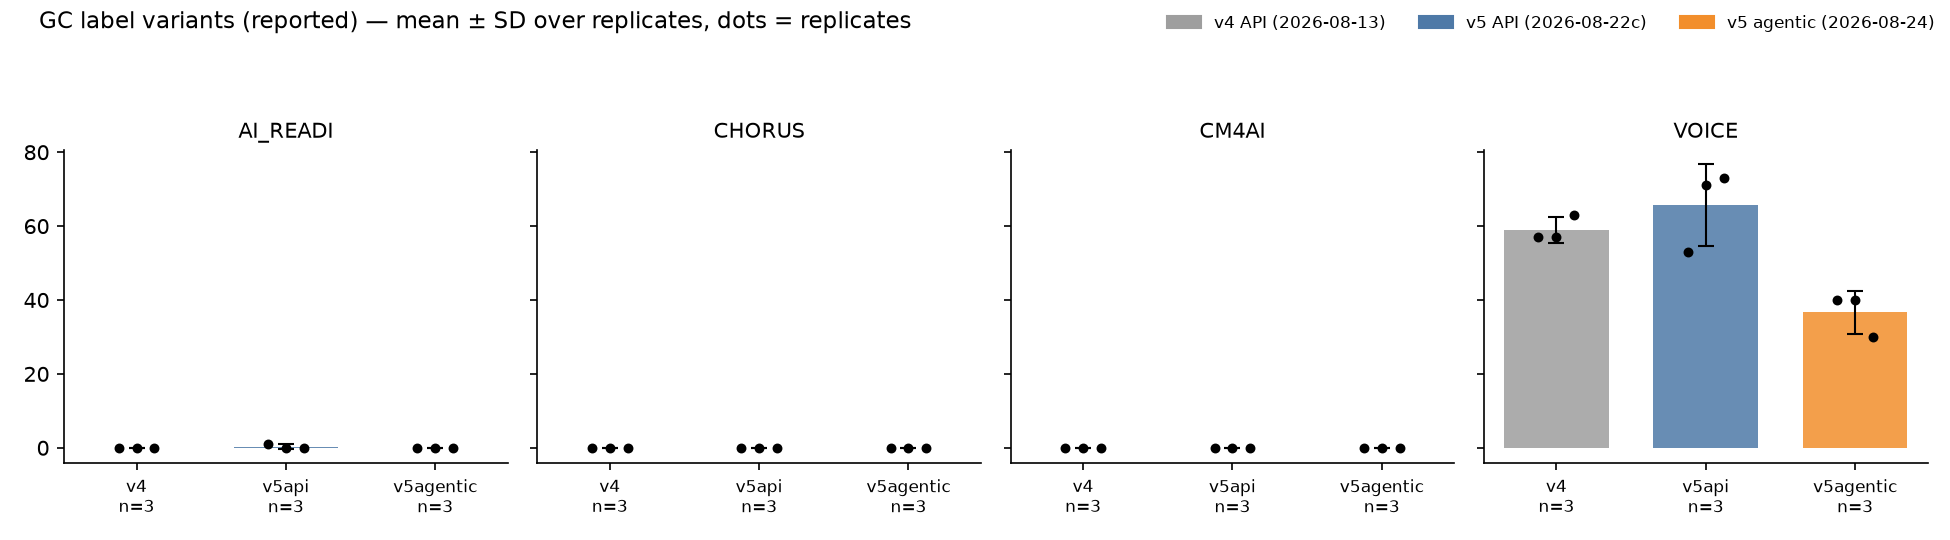
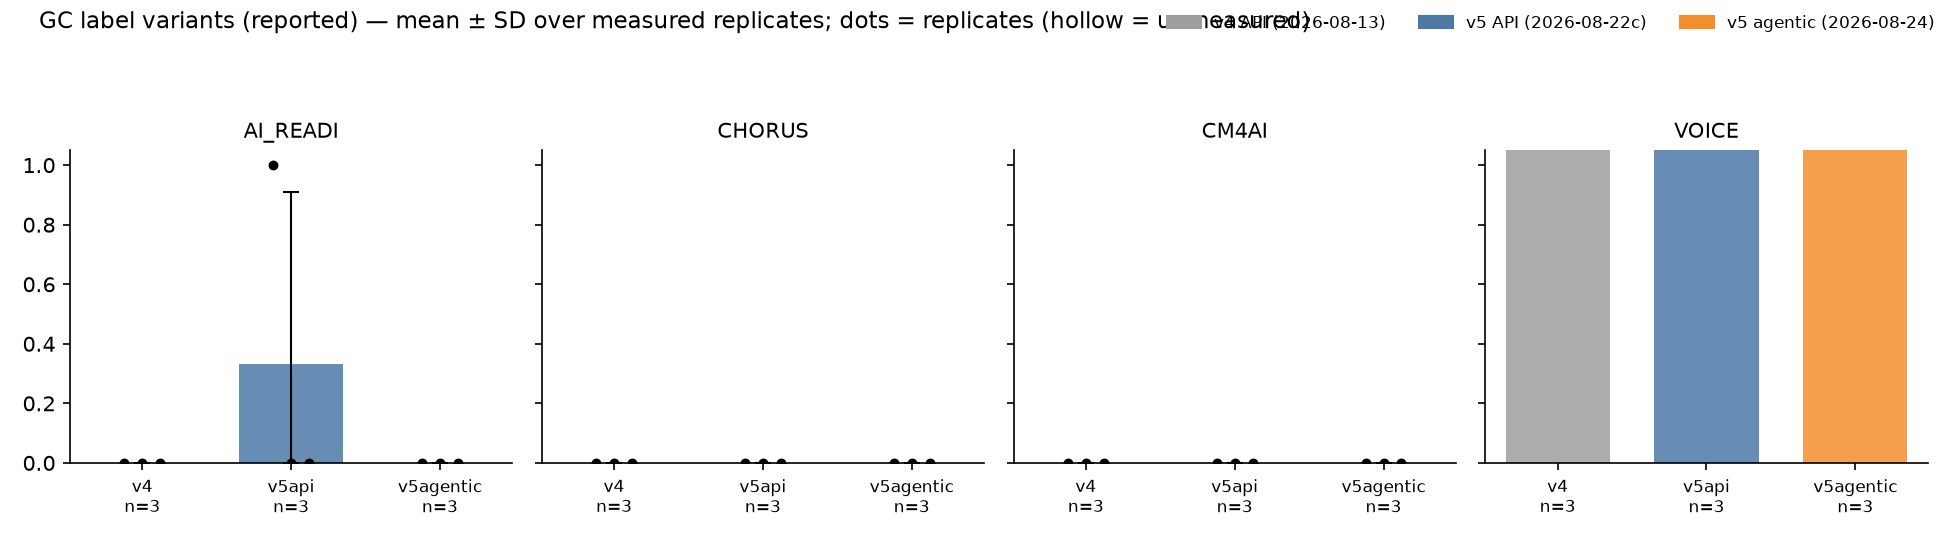
Absorb the #698 review: unmeasured values leave the mean, whiskers stop below zero
F1: a report-findings 0ᵘ (zero parsed claims, #684) was averaged as a
measured zero and drawn as an ordinary replicate dot under "n=3". measured()
now excludes it from the mean and from n; cells with no measured replicate
show only their raw values; a single measured replicate shows its value
without an SD (an SD needs two); the figure draws unmeasured replicates as
hollow dots and n counts only measured ones. The footer says all of this.

F2: count data with n=3 and one outlier — the lower whisker is clipped at
zero and the axis floor is zero; the footer states that with one outlier the
SD is that outlier and the bracketed values are the better summary.

F3: rubric figure titles no longer overrun; the absent-arms note is a
footnote. F4: stale comments and the docstring corrected, statistics
imported once, unused unpacking removed. F5: an arm with no runs shows "–"
under its tick rather than n=0.

Review recomputed all 96 cells independently: 0 mismatches.

diff --git a/scripts/arm_comparison.py b/scripts/arm_comparison.py
@@ -44,6 +44,7 @@ from __future__ import annotations
 import argparse
 import json
 import os
+import statistics
 import sys
 from pathlib import Path
 from typing import Any
@@ -68,9 +69,9 @@ OUT_FIG = ROOT / "notes" / "figures"
 PROJECTS = ("AI_READI", "CHORUS", "CM4AI", "VOICE")
 METHOD = "claudecode_agent"
 
-# (key, display, label prefix, runtime, role). `role` says how the arm is
-# shown: "worst" collapses replicates to the per-project worst (the canary
-# gate's baseline convention), "reps" shows all three.
+# (key, display, label prefix, runtime, role). Every arm is shown as mean ± SD
+# over its replicates; `role == "worst"` additionally prints the per-project
+# worst, the value the canary gate holds runs against.
 ARMS = (
     ("v4", "v4 API (2026-08-13)", "2026-08-13_claude-opus-5-api-generic-v4",
      "Claude API via CBORG", "worst"),
@@ -192,12 +193,23 @@ def fmt(m: dict[str, Any], metric: str) -> str:
     return str(v)
 
 
+def measured(r: dict[str, Any], metric: str) -> bool:
+    """Is this replicate's value a measurement? A report-findings 0 with zero
+    parsed claims is unmeasured (#684) and must not enter a mean as a zero."""
+    v = r.get(metric)
+    if v is None:
+        return False
+    if metric == "report" and v == 0 and not r.get("claims_checked"):
+        return False
+    return True
+
+
 def stats(reps: list[dict[str, Any]], metric: str) -> tuple[float, float, int] | None:
-    """Mean and sample SD (ddof=1) over replicates; None when fewer than 1.
-    n is always reported beside the figure: three replicates is a small
-    sample, and an SD on n=3 is a spread, not a confidence interval."""
-    import statistics
-    vals = [r[metric] for r in reps if r.get(metric) is not None]
+    """Mean and sample SD (ddof=1) over the *measured* replicates; None when
+    there are none. n is always reported beside the figure: three replicates
+    is a small sample, an SD on n=3 is a spread rather than a confidence
+    interval, and with one outlier the SD is that outlier."""
+    vals = [r[metric] for r in reps if measured(r, metric)]
     if not vals:
         return None
     mean = statistics.fmean(vals)
@@ -208,12 +220,14 @@ def stats(reps: list[dict[str, Any]], metric: str) -> tuple[float, float, int] |
 def cell(reps: list[dict[str, Any]], metric: str, role: str) -> str:
     """mean ± SD with the replicates in brackets; the baseline arm adds its
     per-project worst, which is what the canary gate holds runs against."""
+    raw = ",".join(fmt(r, metric) for r in reps)
     st = stats(reps, metric)
     if st is None:
-        return "–"
+        return f"– [{raw}]" if raw else "–"
     mean, sd, n = st
-    raw = ",".join(fmt(r, metric) for r in reps)
-    body = f"{mean:.1f} ± {sd:.1f} [{raw}]"
+    # An SD needs two values; a single measured replicate gets its value and n.
+    centre = f"{mean:.1f} ± {sd:.1f}" if n > 1 else f"{mean:.1f}"
+    body = f"{centre} [{raw}]" + (f" (n={n})" if n != len(reps) else "")
     if role == "worst":
         body += f" worst {worst(reps, metric)}"
     return body
@@ -253,7 +267,7 @@ def write_markdown(data, scores) -> None:
              "- spend: absent by design — `api_usage` and `run_observed` are different "
              "quantities (#400).", "",
              "Arms: " + "; ".join(f"**{d}** — `{pfx}_rep{{1,2,3}}`, {rt}"
-                                   + (" (shown as per-project worst; max for reported-only metrics)" if role == "worst" else "")
+                                   + (" (also shown with its per-project worst — max for reported-only metrics — the canary-gate baseline)" if role == "worst" else "")
                                    for _k, d, pfx, rt, role in ARMS), ""]
 
     lines += ["## Deterministic metrics — mean ± SD over replicates", "",
@@ -265,11 +279,14 @@ def write_markdown(data, scores) -> None:
             for key, _d, _pfx, _rt, role in ARMS:
                 cells.append(cell(data[key][p], mk, role))
             lines.append(f"| {disp} | {p} | " + " | ".join(cells) + " |")
-    lines += ["", "Cells are mean ± sample SD over the replicates (n = 3 unless a run is "
-              "missing), with the replicate values in brackets; the baseline arm adds "
-              "its per-project worst, the value the canary gate holds runs against. "
-              "An SD over three replicates is a spread, not a confidence interval. "
-              "ᵘ = unmeasured: the report-claims checker parsed zero claims (#684).", ""]
+    lines += ["", "Cells are mean ± sample SD over the *measured* replicates, with every "
+              "replicate value in brackets; n is 3 unless stated. The baseline arm adds "
+              "its per-project worst, the value the canary gate holds runs against. Read "
+              "the SD as a spread, not a confidence interval: with n = 3 and one outlier "
+              "(e.g. [3,14,130]) the SD is that outlier, and the bracketed values are the "
+              "better summary. ᵘ = unmeasured — the report-claims checker parsed zero "
+              "claims (#684); unmeasured values are excluded from the mean and n, and a "
+              "cell with no measured replicate shows only its raw values.", ""]
 
     lines += ["## Per-metric caveats (attached, not footnoted elsewhere)", ""]
     for mk, (disp, src, _hiw, cav) in METRICS.items():
@@ -310,29 +327,42 @@ def write_figures(data, scores) -> None:
 
     # One figure per metric: 4 project panels, one bar per arm = replicate mean,
     # error bar = sample SD (n printed under the bar). Replicates are dots.
-    for mk, (disp, _src, _hiw, cav) in METRICS.items():
+    for mk, (disp, _src, _hiw, _cav) in METRICS.items():
         fig, axes = plt.subplots(1, len(PROJECTS), figsize=(13, 3.6), sharey=True)
         for ax, p in zip(axes, PROJECTS):
             ns: dict[int, int] = {}
-            for i, (key, d, _pfx, _rt, role) in enumerate(ARMS):
+            for i, (key, *_rest) in enumerate(ARMS):
                 reps = data[key][p]
                 st = stats(reps, mk)
-                if st is None:
-                    continue
-                mean, sd, n = st
-                ax.bar(i, mean, color=colors[key], width=0.7, alpha=0.85)
-                ax.errorbar(i, mean, yerr=sd, fmt="none", ecolor="black", capsize=4, lw=1)
-                vals = [r[mk] for r in reps if r.get(mk) is not None]
-                ax.scatter([i + (j - 1) * 0.12 for j in range(len(vals))], vals,
-                           s=14, color="black", zorder=3)
-                ns[i] = n
+                if st is not None:
+                    mean, sd, n = st
+                    ax.bar(i, mean, color=colors[key], width=0.7, alpha=0.85)
+                    # Counts cannot go below zero; the lower whisker is clipped.
+                    # No whisker at all for a single measured replicate.
+                    if n > 1:
+                        ax.errorbar(i, mean, yerr=[[min(sd, mean)], [sd]], fmt="none",
+                                    ecolor="black", capsize=4, lw=1)
+                    ns[i] = n
+                # Replicates as dots: filled when measured, hollow when the
+                # value is an unmeasured 0ᵘ (#684) and so not in the mean.
+                for j, r in enumerate(reps):
+                    v = r.get(mk)
+                    if v is None:
+                        continue
+                    x = i + (j - 1) * 0.12
+                    if measured(r, mk):
+                        ax.scatter([x], [v], s=14, color="black", zorder=3)
+                    else:
+                        ax.scatter([x], [v], s=18, facecolors="white", edgecolors="black", zorder=3)
+            ax.set_ylim(bottom=0)
             ax.set_xticks(range(len(ARMS)))
-            ax.set_xticklabels([f"{k}\nn={ns.get(i, 0)}" for i, (k, *_) in enumerate(ARMS)], fontsize=8)
+            ax.set_xticklabels([f"{k}\nn={ns[i]}" if i in ns else f"{k}\n–"
+                                for i, (k, *_) in enumerate(ARMS)], fontsize=8)
             ax.set_title(p, fontsize=10)
             ax.spines[["top", "right"]].set_visible(False)
         handles = [plt.Rectangle((0, 0), 1, 1, color=colors[k]) for k, *_ in ARMS]
         fig.legend(handles, [d for _k, d, *_ in ARMS], loc="upper right", fontsize=8, ncol=3, frameon=False)
-        fig.suptitle(f"{disp} — mean ± SD over replicates, dots = replicates", x=0.02, ha="left", fontsize=11)
+        fig.suptitle(f"{disp} — mean ± SD over measured replicates; dots = replicates (hollow = unmeasured)", x=0.02, ha="left", fontsize=11)
         fig.tight_layout(rect=(0, 0, 1, 0.9))
         out = OUT_FIG / f"arm_comparison_{mk}.png"
         fig.savefig(out, dpi=150); plt.close(fig)
@@ -374,9 +404,10 @@ def _rubric_figure(rubric, scores, colors) -> None:
     ax.set_ylabel(f"{rubric}-semantic points (axis: unadjusted max {RUBRIC_MAX[rubric]})")
     ax.spines[["top", "right"]].set_visible(False)
     ax.legend(frameon=False, fontsize=8, loc="upper center", bbox_to_anchor=(0.5, -0.12), ncol=len(arm_keys))
-    ax.set_title(f"{rubric.capitalize()}-semantic, canonical records (same evaluator; n = 1 per bar, no SD)"
-                 + (f" — no evaluations exist for: {', '.join(absent)}" if absent else ""),
+    ax.set_title(f"{rubric.capitalize()}-semantic, canonical records (same evaluator; n = 1 per bar, no SD)",
                  fontsize=9, loc="left")
+    if absent:
+        fig.text(0.01, 0.01, f"No evaluations exist for: {', '.join(absent)}", fontsize=7, color="#555")
     fig.tight_layout()
     out = OUT_FIG / f"arm_comparison_{rubric}.png"
     fig.savefig(out, dpi=150); plt.close(fig)

diff --git a/notes/arm_comparison.md b/notes/arm_comparison.md
@@ -9,7 +9,7 @@ Generated by `scripts/arm_comparison.py` from the provenance records under `data
 - rubric scores: `data/evaluation_llm/rubric{10,20}_semantic/label_aware/`, same evaluator for every arm shown; N/A exclusions are evaluator judgements, so adjusted maxima can differ between comparable records.
 - spend: absent by design — `api_usage` and `run_observed` are different quantities (#400).
 
-Arms: **v4 API (2026-08-13)** — `2026-08-13_claude-opus-5-api-generic-v4_rep{1,2,3}`, Claude API via CBORG (shown as per-project worst; max for reported-only metrics); **v5 API (2026-08-22c)** — `2026-08-22c_claude-opus-5-api-generic-v5_rep{1,2,3}`, Claude API via CBORG; **v5 agentic (2026-08-24)** — `2026-08-24_claude-opus-5-claudecode-generic-v5_rep{1,2,3}`, Claude Code
+Arms: **v4 API (2026-08-13)** — `2026-08-13_claude-opus-5-api-generic-v4_rep{1,2,3}`, Claude API via CBORG (also shown with its per-project worst — max for reported-only metrics — the canary-gate baseline); **v5 API (2026-08-22c)** — `2026-08-22c_claude-opus-5-api-generic-v5_rep{1,2,3}`, Claude API via CBORG; **v5 agentic (2026-08-24)** — `2026-08-24_claude-opus-5-claudecode-generic-v5_rep{1,2,3}`, Claude Code
 
 ## Deterministic metrics — mean ± SD over replicates
 
@@ -35,10 +35,10 @@ Arms: **v4 API (2026-08-13)** — `2026-08-13_claude-opus-5-api-generic-v4_rep{1
 | pair errors | CHORUS | 3.0 ± 3.0 [6,0,3] worst 6 | 1.0 ± 1.0 [1,0,2] | 0.0 ± 0.0 [0,0,0] |
 | pair errors | CM4AI | 6.0 ± 3.0 [6,9,3] worst 9 | 6.0 ± 2.6 [4,5,9] | 0.0 ± 0.0 [0,0,0] |
 | pair errors | VOICE | 6.3 ± 2.5 [9,4,6] worst 9 | 5.7 ± 1.2 [7,5,5] | 0.0 ± 0.0 [0,0,0] |
-| report findings | AI_READI | 1.7 ± 0.6 [2,1,2] worst 2 | 0.3 ± 0.6 [0ᵘ,1,0ᵘ] | 0.0 ± 0.0 [0ᵘ,0ᵘ,0ᵘ] |
-| report findings | CHORUS | 0.0 ± 0.0 [0ᵘ,0ᵘ,0ᵘ] worst 0ᵘ | 0.0 ± 0.0 [0ᵘ,0ᵘ,0ᵘ] | 0.0 ± 0.0 [0ᵘ,0ᵘ,0] |
-| report findings | CM4AI | 2.7 ± 1.5 [3,1,4] worst 4 | 0.7 ± 1.2 [2,0ᵘ,0ᵘ] | 0.0 ± 0.0 [0ᵘ,0ᵘ,0ᵘ] |
-| report findings | VOICE | 2.0 ± 0.0 [2,2,2] worst 2 | 0.7 ± 0.6 [0ᵘ,1,1] | 0.0 ± 0.0 [0ᵘ,0ᵘ,0ᵘ] |
+| report findings | AI_READI | 1.7 ± 0.6 [2,1,2] worst 2 | 1.0 [0ᵘ,1,0ᵘ] (n=1) | – [0ᵘ,0ᵘ,0ᵘ] |
+| report findings | CHORUS | – [0ᵘ,0ᵘ,0ᵘ] | – [0ᵘ,0ᵘ,0ᵘ] | 0.0 [0ᵘ,0ᵘ,0] (n=1) |
+| report findings | CM4AI | 2.7 ± 1.5 [3,1,4] worst 4 | 2.0 [2,0ᵘ,0ᵘ] (n=1) | – [0ᵘ,0ᵘ,0ᵘ] |
+| report findings | VOICE | 2.0 ± 0.0 [2,2,2] worst 2 | 1.0 ± 0.0 [0ᵘ,1,1] (n=2) | – [0ᵘ,0ᵘ,0ᵘ] |
 | minted fragments (reported) | AI_READI | 14.7 ± 2.1 [17,14,13] worst 17 | 9.0 ± 7.8 [0,13,14] | 10.3 ± 6.7 [16,3,12] |
 | minted fragments (reported) | CHORUS | 0.0 ± 0.0 [0,0,0] worst 0 | 0.0 ± 0.0 [0,0,0] | 0.0 ± 0.0 [0,0,0] |
 | minted fragments (reported) | CM4AI | 4.0 ± 6.9 [12,0,0] worst 12 | 13.7 ± 3.2 [15,10,16] | 49.3 ± 6.7 [42,55,51] |
@@ -48,7 +48,7 @@ Arms: **v4 API (2026-08-13)** — `2026-08-13_claude-opus-5-api-generic-v4_rep{1
 | GC label variants (reported) | CM4AI | 0.0 ± 0.0 [0,0,0] worst 0 | 0.0 ± 0.0 [0,0,0] | 0.0 ± 0.0 [0,0,0] |
 | GC label variants (reported) | VOICE | 59.0 ± 3.5 [57,57,63] worst 63 | 65.7 ± 11.0 [53,71,73] | 36.7 ± 5.8 [40,40,30] |
 
-Cells are mean ± sample SD over the replicates (n = 3 unless a run is missing), with the replicate values in brackets; the baseline arm adds its per-project worst, the value the canary gate holds runs against. An SD over three replicates is a spread, not a confidence interval. ᵘ = unmeasured: the report-claims checker parsed zero claims (#684).
+Cells are mean ± sample SD over the *measured* replicates, with every replicate value in brackets; n is 3 unless stated. The baseline arm adds its per-project worst, the value the canary gate holds runs against. Read the SD as a spread, not a confidence interval: with n = 3 and one outlier (e.g. [3,14,130]) the SD is that outlier, and the bracketed values are the better summary. ᵘ = unmeasured — the report-claims checker parsed zero claims (#684); unmeasured values are excluded from the mean and n, and a cell with no measured replicate shows only its raw values.
 
 ## Per-metric caveats (attached, not footnoted elsewhere)
 
